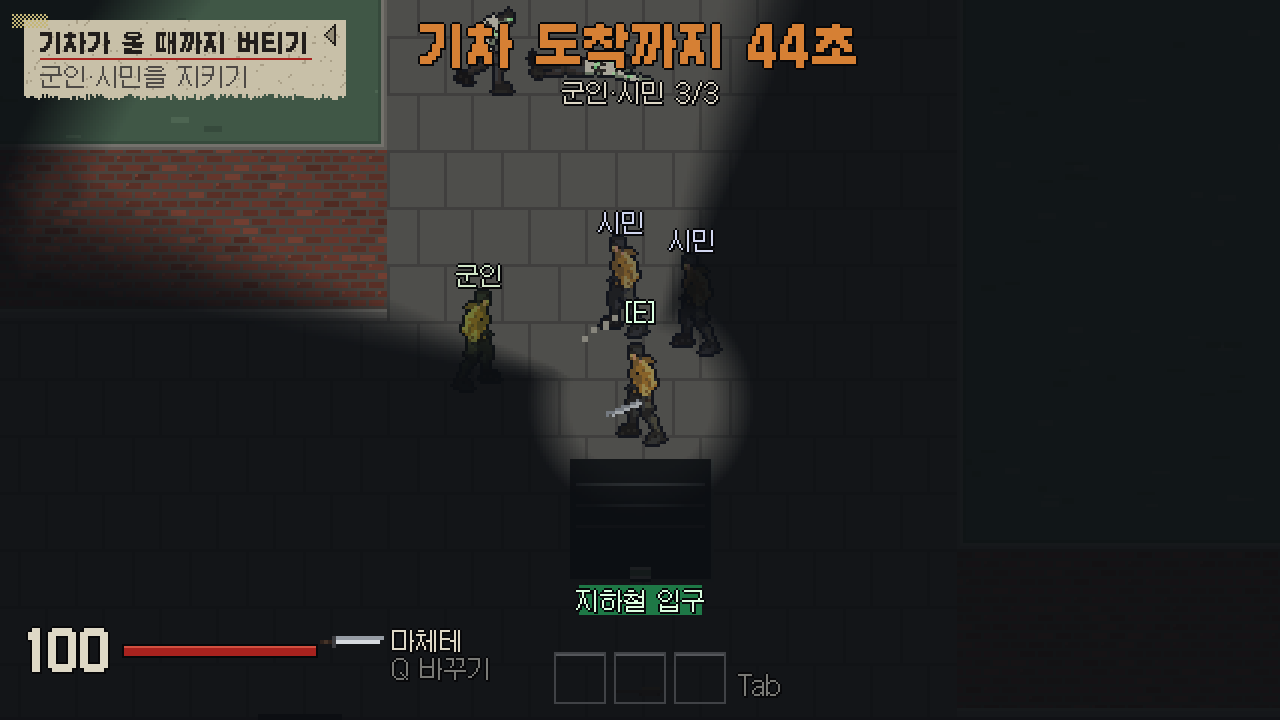
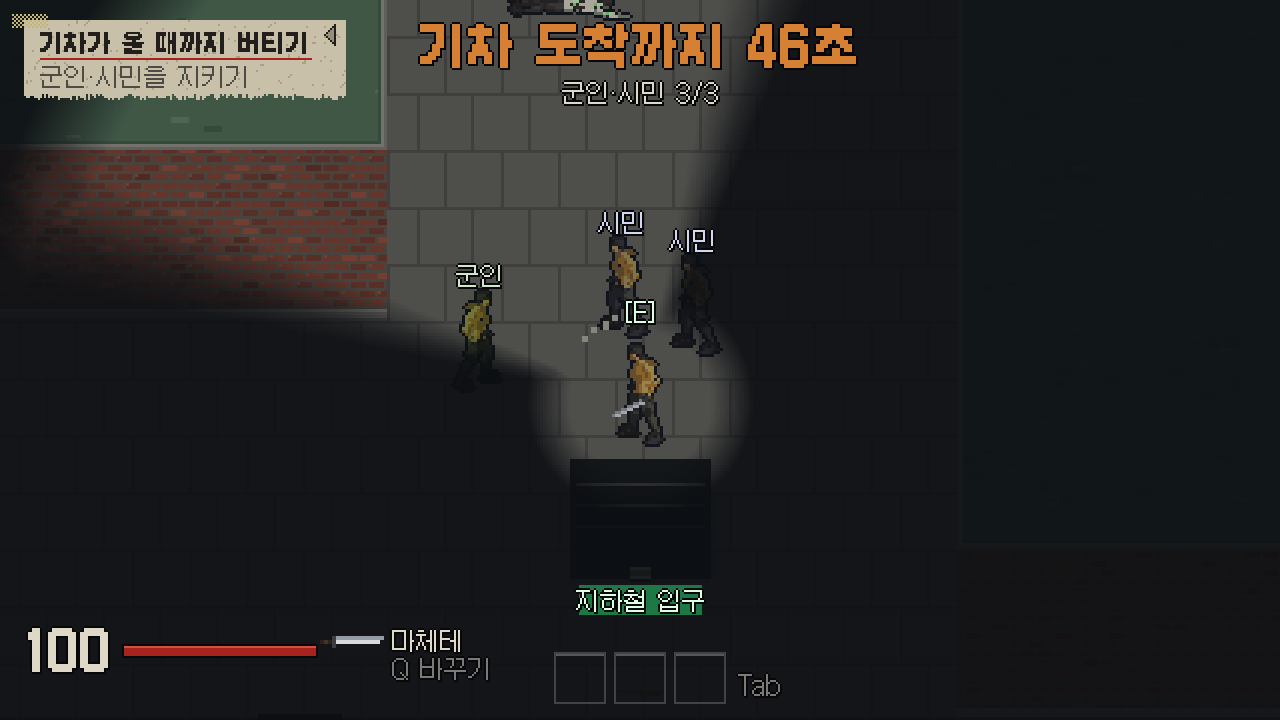
역 울타리: 디펜스 전까지 피폭체가 못 들어오고 사람들이 살아 있게, 공부 노트 시작
- 출입 금지 구역(area.kept_out): 피폭체만 막고 주인공은 통과
- 디펜스 전엔 사람들을 노리지 않고 군인도 쏘지 않음, E로 열림
- docs/study: 노트 형식과 01 역 울타리

diff --git a/src/play.py b/src/play.py
@@ -53,6 +53,7 @@ DEFENSE_TIME = 60.0          # s from the start of the station defense to the tr
 DEFENSE_EVERY = (2.5, 4.0)   # s between arrivals while defending (outside: SPAWN_EVERY)
 DEFENSE_ALIVE = 9            # at most this many up at once while defending
 DEFENSE_WAYS = 3             # they come in by this many entrances nearest the station
+STATION_PAD = (120, 40, 80)   # the fenced station: this far left, right and up from the exit
 STATION_PEOPLE = (("soldier", -90, 10), ("civilian", -10, 40), ("civilian", 30, 30))   # kind, offset from the exit
 SHOVE_REACH = 46             # px a shove reaches
 MUFFLED_OFFSET = 55          # px a sound heard through a wreck is misplaced by (Zomboid: +-2 tiles)
@@ -124,6 +125,11 @@ class Game:
         self.people = [survivors.place(kind, (ex + dx, ey + dy)) for kind, dx, dy in STATION_PEOPLE]
         self.defense = None          # s left until the train, while the defense runs
         self.station = None
+        # the station is fenced off until the hero gets there (2026-11-18 "역에 가니까 이미 다 죽어
+        # 있음, 공간을 분리해서 유지되게"): the infected can't step in and don't go for the people
+        self.station_zone = (EXIT[0] - STATION_PAD[0], EXIT[1], EXIT[2] + STATION_PAD[1], EXIT[3] + STATION_PAD[2])
+        self.station_open = False
+        Zombie.keep_out = [self.station_zone]
         # the camera starts on the hero (a real-map area is big: from the corner it slid across it)
         self.cam = [self.hero.x - getattr(self, "view_w", 0) / 2, self.hero.y - getattr(self, "view_h", 0) / 2]
         if hasattr(self, "view_w"):
@@ -538,6 +544,8 @@ class Game:
         """At the station: hold out with the people there until the train comes."""
         self.defense = DEFENSE_TIME
         self.station = (self.hero.x, self.hero.y)         # where the infected are drawn to
+        self.station_open = True                          # the fence opens: they can get in now
+        Zombie.keep_out = []
         self.to_spawn = max(self.to_spawn, 99)            # they keep coming until the train
         self.spawn_in = 1.0
         self.message = f"기차 도착까지 {DEFENSE_TIME:.0f}초 · 버텨라"
@@ -558,10 +566,12 @@ class Game:
         hero = self.hero
         if z.state in ("chase", "poised", "windup", "strike", "recover") and getattr(z, "prey", hero) is hero:
             return hero
-        bodies = [hero] + [s for s in self.people if s.alive]
+        bodies = [hero] + [s for s in self.people if s.alive and self.station_open]
         return min(bodies, key=lambda b: (b.x - z.x) ** 2 + (b.y - z.y) ** 2)
 
     def update_people(self, dt):
+        if not self.station_open:                          # behind the fence they wait, the soldier holds fire
+            return
         for s in self.people:
             happened = s.update(dt, self)
             if not happened:
@@ -625,6 +635,25 @@ class Game:
         self.to_spawn -= 1
         self.sounds.play("alert", 0.7, at=(x, y))          # heard coming in, maybe unseen
         return True
+
+    def draw_fence(self, cx, cy):
+        """A low metal fence with posts round the station (open side: the exit's own wall). Rails
+        and posts are filled bars at least one canvas pixel thick (a 1-unit line falls between
+        canvas pixels and vanishes, 2026-11-18)."""
+        l, b, r, t = self.station_zone
+        px_ = 1 / DOT                                       # one canvas pixel in world units
+        rail, post, edge = (150, 154, 156), (104, 108, 112), (40, 42, 46)
+        for x0, y0, x1, y1 in ((l, b, l, t), (l, t, r, t), (r, t, r, b)):
+            for lift in (4, 11):                            # two rails
+                if y0 == y1:
+                    pico2d.draw_rectangle(x0 - cx, y0 + lift - cy, x1 - cx, y0 + lift + px_ * 1.5 - cy, *rail, filled=True)
+                else:
+                    pico2d.draw_rectangle(x0 - cx, min(y0, y1) + lift - cy, x0 + px_ * 1.5 - cx, max(y0, y1) + lift - cy, *rail, filled=True)
+            steps = max(1, int(hypot(x1 - x0, y1 - y0) // 18))
+            for k in range(steps + 1):                      # posts
+                qx, qy = x0 + (x1 - x0) * k / steps, y0 + (y1 - y0) * k / steps
+                pico2d.draw_rectangle(qx - px_ * 1.5 - cx, qy - cy, qx + px_ * 1.5 - cx, qy + 14 - cy, *edge, filled=True)
+                pico2d.draw_rectangle(qx - px_ * 0.5 - cx, qy - cy, qx + px_ * 0.5 - cx, qy + 13 - cy, *post, filled=True)
 
     def update(self, real_dt, keys):
         real_dt *= self.dev.speed                          # dev panel: the whole game slower / faster
@@ -1040,6 +1069,8 @@ class Game:
             pico2d.draw_line(l + 4 - cx, b + 6 + i * 12 - cy, r - 4 - cx, b + 6 + i * 12 - cy, 60, 64, 66)
         pico2d.draw_rectangle(l - cx, b - cy, r - cx, t - cy, 90, 96, 92)
         draw_stains(self.stains, cx, cy)
+        if not self.station_open:                          # the station's fence, until the defense
+            self.draw_fence(cx, cy)
         near_weapon = self.nearest_weapon()
         for w in self.ground_weapons:                       # weapons lying flat on the ground
             x, y, name = w

diff --git a/src/area.py b/src/area.py
@@ -169,9 +169,18 @@ def waypoint(x, y, tx, ty):
     return (c + 0.5) * PATH_CELL, (r + 0.5) * PATH_CELL
 
 
+def kept_out(body, x, y):
+    """A body with `keep_out` rects (l, b, r, t) may not step into them from outside (2026-11-18:
+    the station is closed to the infected until the defense). One already inside may move."""
+    for l, b, r, t in getattr(body, "keep_out", ()):
+        if l <= x <= r and b <= y <= t and not (l <= body.x <= r and b <= body.y <= t):
+            return True
+    return False
+
+
 def move_body(body, dx, dy):
     """Slide along obstacles one axis at a time."""
-    if not blocked(body.x + dx, body.y):
+    if not blocked(body.x + dx, body.y) and not kept_out(body, body.x + dx, body.y):
         body.x += dx
-    if not blocked(body.x, body.y + dy):
+    if not blocked(body.x, body.y + dy) and not kept_out(body, body.x, body.y + dy):
         body.y += dy

diff --git a/src/infected.py b/src/infected.py
@@ -304,6 +304,7 @@ class Zombie:
         return event
 
     show_marks = True        # "!" / "?" over the head
+    keep_out = []            # rects closed to the infected (area.kept_out; play sets the station's)
     blink_corpse = True      # the corpse blinks; off in the realistic look (bodies stay)
 
     def draw(self, cx, cy):

diff --git a/docs/study/01_역_울타리.md b/docs/study/01_역_울타리.md
@@ -1,0 +1,64 @@
+# 01. 역 울타리: 디펜스 전까지 사람들을 지키기 (2026-11-18)
+
+## 1. 문제
+
+역 디펜스를 처음 만들었을 때, 주인공이 역에 가 보면 군인·시민이 이미 다 죽어 있었다(사용자 "역에 가니까 이미 다 죽어 있음, 공간을 좀 분리해서 유지되게").
+
+원인은 두 가지였다.
+- 피폭체는 **가장 가까운 사람**을 노린다(같은 날 만든 규칙). 골목을 돌아다니던 피폭체가 역 근처에 오면 주인공 대신 시민을 노렸다.
+- 군인은 **보이면 쏜다.** 총소리(400)가 근처 피폭체를 불러서, 오히려 역으로 피폭체를 모았다.
+
+## 2. 선택지
+
+| 방법 | 내용 | 장점 | 단점 |
+|---|---|---|---|
+| A. 맵에 진짜 벽 | 글자 지도에 벽을 그려 역을 막음 | 가장 단순한 원리 | 디펜스 때 벽을 없애야 함. 길 찾기(BFS 격자)도 다시 계산해야 하고, 맵 파일과 코드가 얽힘 |
+| B. 출입 금지 구역 | 사각형 하나를 "피폭체만 못 들어감"으로 표시 | 주인공은 통과, 피폭체만 막음. 켜고 끄기 쉬움 | 길 찾기는 이 구역을 모름(울타리를 따라 미끄러짐) |
+| C. 표적에서 빼기 | 디펜스 전엔 피폭체가 사람들을 노리지 않음 | 한 줄로 끝남 | 이것만 하면 지나가던 피폭체가 그냥 걸어 들어올 수 있음 |
+| D. 늦게 만들기 | 디펜스를 시작할 때 사람들을 생성 | 죽을 일이 아예 없음 | 역에 갔을 때 아무도 없어서 "사람이 있는 역"이라는 느낌이 사라짐 |
+
+## 3. 고른 것: B + C + 군인 사격 멈춤
+
+- **B(출입 금지 구역)로 공간을 나누고,** 눈에 보이게 울타리를 그린다. "왜 안 들어오지?"가 화면으로 설명된다.
+- **C(표적에서 빼기)를 같이 쓴다.** 울타리 밖 피폭체가 안쪽 시민을 보고 울타리에 들러붙어 있으면, 디펜스를 시작하자마자 바로 붙어 버린다.
+- **군인은 디펜스 전엔 쏘지 않는다.** 총소리가 피폭체를 부르는 규칙(F6)과 부딪히기 때문이다.
+- 주인공이 **E를 누르는 순간** 울타리가 열리고(구역 해제), 세 가지가 모두 풀린다.
+
+D는 버렸다. 역에 도착했을 때 사람들이 기다리고 있는 모습이 이 구역의 이야기이기 때문이다.
+
+## 4. 기법 이름
+
+- **출입 금지 구역 (Keep-out zone, No-go area, Nav blocker):** 길 찾기나 이동에서 특정 영역을 막는 방법. 언리얼 엔진의 *Nav Modifier Volume*, 유니티의 *NavMesh Obstacle*이 같은 생각이다.
+- **표적 거르기 (Target filtering):** AI가 고를 수 있는 표적 목록을 조건으로 거른다. 여기서는 "역이 열렸을 때만 사람들도 표적".
+- **사건으로 상태 바꾸기 (Event / Trigger):** "E를 눌렀다"는 한 사건이 여러 시스템의 상태(울타리, 표적, 사격)를 한 번에 바꾼다. 상태 기계(FSM)의 "전이"를 바깥 사건이 일으키는 것.
+
+## 5. 고려한 것
+
+- **주인공은 막지 않는다:** 이동 함수 `move_body`는 주인공과 피폭체가 같이 쓴다. 그래서 막는 규칙을 "몸마다 `keep_out` 목록이 있으면 그 안으로 못 들어감"으로 만들었다. 주인공은 목록이 없어 그대로 지나간다.
+- **이미 안에 있는 몸은 나갈 수 있게:** "밖에서 안으로 들어가는 걸음"만 막는다. 안에 갇힌 피폭체가 생겨도 멈춰 버리지 않는다.
+- **모든 피폭체에 한 번에:** 목록을 피폭체 하나하나가 아니라 `Zombie` 클래스에 둔다. 새로 생기는 피폭체도 자동으로 적용되고, 열 때도 한 줄(`Zombie.keep_out = []`)이다.
+- **다른 장소에도 쓸 수 있게:** 규칙은 `area.py`에 있고 사각형만 받는다. 나중에 쉘터나 다른 역에도 그대로 쓸 수 있다.
+- **그림:** 1 월드 단위 선은 캔버스 픽셀 사이에 떨어져 사라진다(F1 때 겪은 문제). 울타리는 1 캔버스 픽셀 이상 두께로 그렸다.
+
+## 6. 최적화
+
+- 검사는 **사각형 안에 있는지 비교 4번**뿐이다(O(1)). 구역이 하나라 피폭체 9마리 × 60프레임이어도 무시할 만한 양이다.
+- **움직일 때만** 검사한다. 서 있는 몸은 검사하지 않는다.
+- 구역이 많아지면(예: 20개 이상) 벽에 쓰는 것처럼 **공간 나누기(버킷)**로 근처 구역만 볼 수 있다. 지금은 필요 없어서 하지 않았다(필요해지기 전에 최적화하지 않기).
+- 길 찾기 격자(BFS)는 다시 계산하지 않는다. 대신 피폭체가 울타리를 따라 미끄러진다. 디펜스 전엔 사람들을 노리지 않으니 울타리로 갈 이유가 거의 없어서, 이 정도로 충분하다.
+
+## 7. 코드 위치
+
+- `src/area.py` `kept_out()`, `move_body()`: 출입 금지 검사
+- `src/infected.py` `Zombie.keep_out`: 피폭체 모두에게 적용되는 목록
+- `src/play.py` `reset()`: `station_zone`(출구에서 왼쪽 120, 오른쪽 40, 위 80), `station_open`
+- `src/play.py` `start_defense()`: 울타리를 열고 목록을 비움
+- `src/play.py` `prey_for()`: 역이 열렸을 때만 사람들도 표적
+- `src/play.py` `update_people()`: 열리기 전엔 군인이 쏘지 않음
+- `src/play.py` `draw_fence()`: 울타리 그림
+
+## 8. 점검과 한계
+
+- 점검(시드 4개, 90초 동안 주인공은 멀리): 사람들 3/3 생존, 울타리 안 피폭체 0. E를 누르면 열리고 디펜스가 시작된다.
+- **한계:** 길 찾기가 울타리를 모르므로, 울타리 너머 목표가 생기면 피폭체가 울타리 앞에서 미끄러지기만 한다. 나중에 역 안쪽 목표가 필요하면 길 찾기 격자에 구역을 더하는 쪽(A와 B의 중간)으로 간다.
+- **다음:** 울타리 대신 실제 역 셔터·개찰구 그림, 디펜스 시작 때 셔터가 올라가는 연출.

diff --git a/docs/DEVLOG.md b/docs/DEVLOG.md
@@ -320,3 +320,4 @@
 - **머리 박스·통조림·F1 판정(2026-11-18):** `weapons.PARTS` (0,20)(20,35)(35,48), `PATH_PARTS` 다리 경계 16→18. 피폭체 idle 그림을 확대해 보니 머리 35~47. `supplies.CAN_HEAL 25`, `QUICK_KEYS`(play 숫자 키와 hud 빠른 칸이 같이 씀), `play.use` 통조림. `BODY_CONTACT`를 play → weapons로(dev_tools가 순환 import 없이 씀). F1 근접 부채꼴을 `w['arc']`, 반지름 `attack_range + BODY_MARGIN`(play.update 판정과 같음), 몸 붙음 원, 가슴 점. 점검: aim(머리 30→21), combat, stomp(바꾸기 전과 같음), inv, stage1, dev(통조림 50→75) 통과.
 - **역 디펜스(2026-11-18):** 새 `src/survivors.py`(`KINDS` 군인·시민, `Survivor`: 맞으면 `take_blow`, `update`가 군인 사격 또는 일어남을 돌려줌, `place`가 막히지 않은 자리 찾기). `play`: `STATION_PEOPLE`, `DEFENSE_TIME 60`, `DEFENSE_EVERY`, `DEFENSE_ALIVE`, `DEFENSE_WAYS`; `start_defense`/`train_arrives`, `prey_for`(가장 가까운 몸), `update_people`(총알 선·소리·피해, 일어나면 `Zombie`), `make_noise(radius, at)`; 피폭체 루프에서 몸마다 맞음 처리, 디펜스 중 idle/search는 역으로. `infected`: 시야 밖 짧은 예고는 주인공일 때만. `character_look.draw(tint=)`(SDL 색 곱하기). `hud`: 남은 시간·사람 수, 쪽지, 요약. 처음엔 피폭체가 8초 기억이 끝나 멀리서 포기 → 디펜스 중엔 계속 부름; 군인이 한 발에 다 잡아 사람이 안 다침 → 명중·피해·탄 줄임. 점검 check_defense(3·5·7 시드), stage1(E가 이제 디펜스 시작), combat·senses·spawn·pistol·inv 예전과 같음.
 - **F6 소리 원이 쌓이던 것(2026-11-18):** 사용자 "너무 오래 원이 유지된다, 금방 없어지게". 걷는 동안 발소리가 매 프레임 나서 0.8초짜리 원이 수십 개 겹쳐 노란 덩어리가 됐다. `dev_tools.heard`가 같은 크기의 소리는 새로 덧붙이지 않고 바꿔 끼움, `NOISE_SHOW` 0.8 → 0.3초. 점검 check_rings: 1초 걸어도 발소리 원 1개, 멈추고 0.3초 뒤 0개. 화면 `docs/planning/dev_sounds_walk.png`.
+- **역 울타리(2026-11-18):** `area.kept_out`(몸의 `keep_out` 사각형에 밖에서 들어가는 걸음만 막음)과 `move_body`; `Zombie.keep_out`(클래스 공용); `play.station_zone`/`station_open`, `STATION_PAD`, `draw_fence`(캔버스 픽셀 두께 막대). 디펜스 전엔 `prey_for`가 사람들을 빼고 `update_people`이 멈춤. 점검 check_fence(시드 1~4, 90초, 3/3 생존, 안쪽 0), defense·combat·stage1. 공부 노트를 시작함: `docs/study/README.md`(노트 형식), `01_역_울타리.md`(선택지 A 벽·B 출입 금지·C 표적 거르기·D 늦게 생성, B+C 고른 이유, 기법 이름, 최적화).

diff --git a/PRD.md b/PRD.md
@@ -19,6 +19,9 @@
 
 > **기획 고정 문서:** [DESIGN_LOCK.md](docs/planning/DESIGN_LOCK.md)(2026-11-13)가 기둥 3개·확정·정할 것·보류함·바꾸는 규칙을 담는다. 이 PRD와 어긋나면 고정 문서가 우선이고 PRD를 고친다.
 
+- **v8.9 (2026-11-18) — 역 울타리: 디펜스 전까지 사람들이 살아 있게.** 사용자 "역에 가니까 이미 다 죽어 있음, 공간을 좀 분리해서 그게 유지되게".
+  - 역(출구에서 왼쪽 120, 오른쪽 40, 위 80)에 낮은 울타리. 디펜스 전엔 피폭체가 들어오지 못하고(주인공은 들어감), 안의 사람들을 노리지 않으며, 군인은 쏘지 않는다(총소리가 피폭체를 부르므로).
+  - E로 디펜스를 시작하면 울타리가 열리고 모두 풀린다. 점검: 주인공이 멀리 있는 채 90초, 시드 4개 모두 3/3 생존·울타리 안 피폭체 0. 화면 `docs/planning/station_fence.png`. 공부 노트 `docs/study/01_역_울타리.md`.
 - **v8.8 (2026-11-18) — 역 디펜스(작게): 군인·시민과 함께 기차를 기다림. 목표는 스테이지 1개 완성.** 사용자 "각 구역을 넘어갈 때마다 디펜스를 하는 건 어떨까요? 역까지 가요, 물자를 파밍해서 가요, 역에서 기차가 도착할 때까지 디펜스", "역에 가면 군인, 민간인들이 있다는 설정", "작게 만들어 보고 보여 줘, 스테이지 구성은 1개만 만드는 데 목표로 우선하자".
   - **흐름:** 골목에서 물자를 챙기며 역(지금은 지하철 입구)으로 → 입구에서 `E` → "기차 도착까지 60초" 디펜스 → 기차가 오면 끝(요약: 함께 탄 사람 수). 예전엔 `E`로 바로 나갔다.
   - **역의 사람들:** 군인 1(입구 옆에 서서 300 안의 보이는 피폭체를 쏨, 12발, 50% 명중, 피해 6~9, 총소리 400), 시민 2(가운데 모여 있음). 맞을 수 있는 횟수: 군인 3, 시민 2. 쓰러지면 2.5초 뒤 피폭체로 일어난다(안에서 생기는 위험).

diff --git a/docs/study/README.md b/docs/study/README.md
@@ -1,0 +1,20 @@
+# 공부 노트
+
+사용자 요청(2026-11-18): "개발을 할 때 왜 그렇게 하였는지 이해하면서 진행하고 싶습니다. 어떠한 선택지들이 있고, 어떤 기법들이 있고, 최적화를 어떻게 하였고, 어떤 것들을 고려하면서 했는지 공유".
+
+큰 기능을 만들 때마다 한 장씩 쓴다. 모든 노트는 같은 순서를 따른다.
+
+1. **문제:** 무엇이 왜 안 됐나
+2. **선택지:** 가능한 방법들과 장단점
+3. **고른 것과 이유**
+4. **기법 이름:** 다른 게임·자료에서 찾아볼 때 쓰는 이름
+5. **고려한 것**
+6. **최적화:** 얼마나 무거운지, 어떻게 가볍게 했나
+7. **코드 위치:** 파일과 함수
+8. **한계와 다음**
+
+## 목록
+
+| # | 주제 | 핵심 기법 |
+|---|---|---|
+| 01 | [역 울타리: 디펜스 전까지 사람들을 지키기](01_역_울타리.md) | 출입 금지 구역, 표적 거르기, 사건(트리거)으로 상태 바꾸기 |
